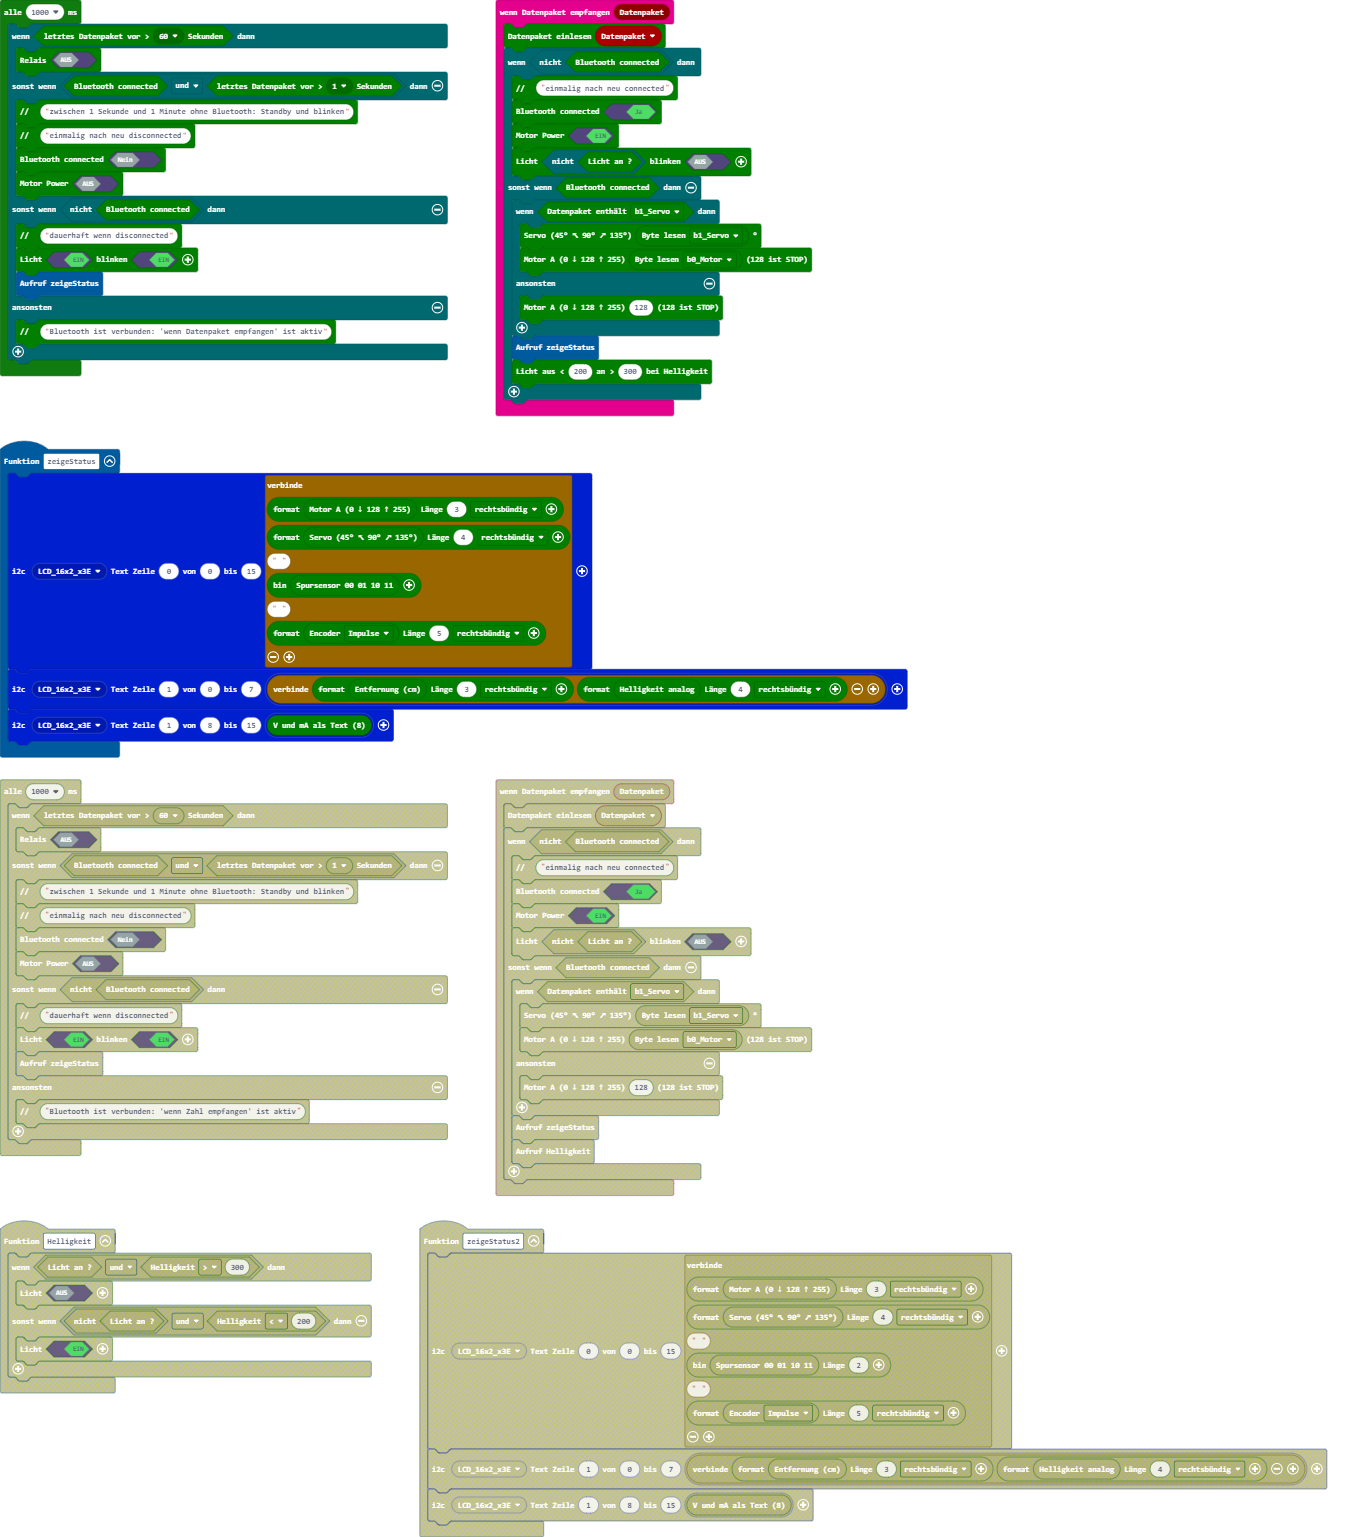
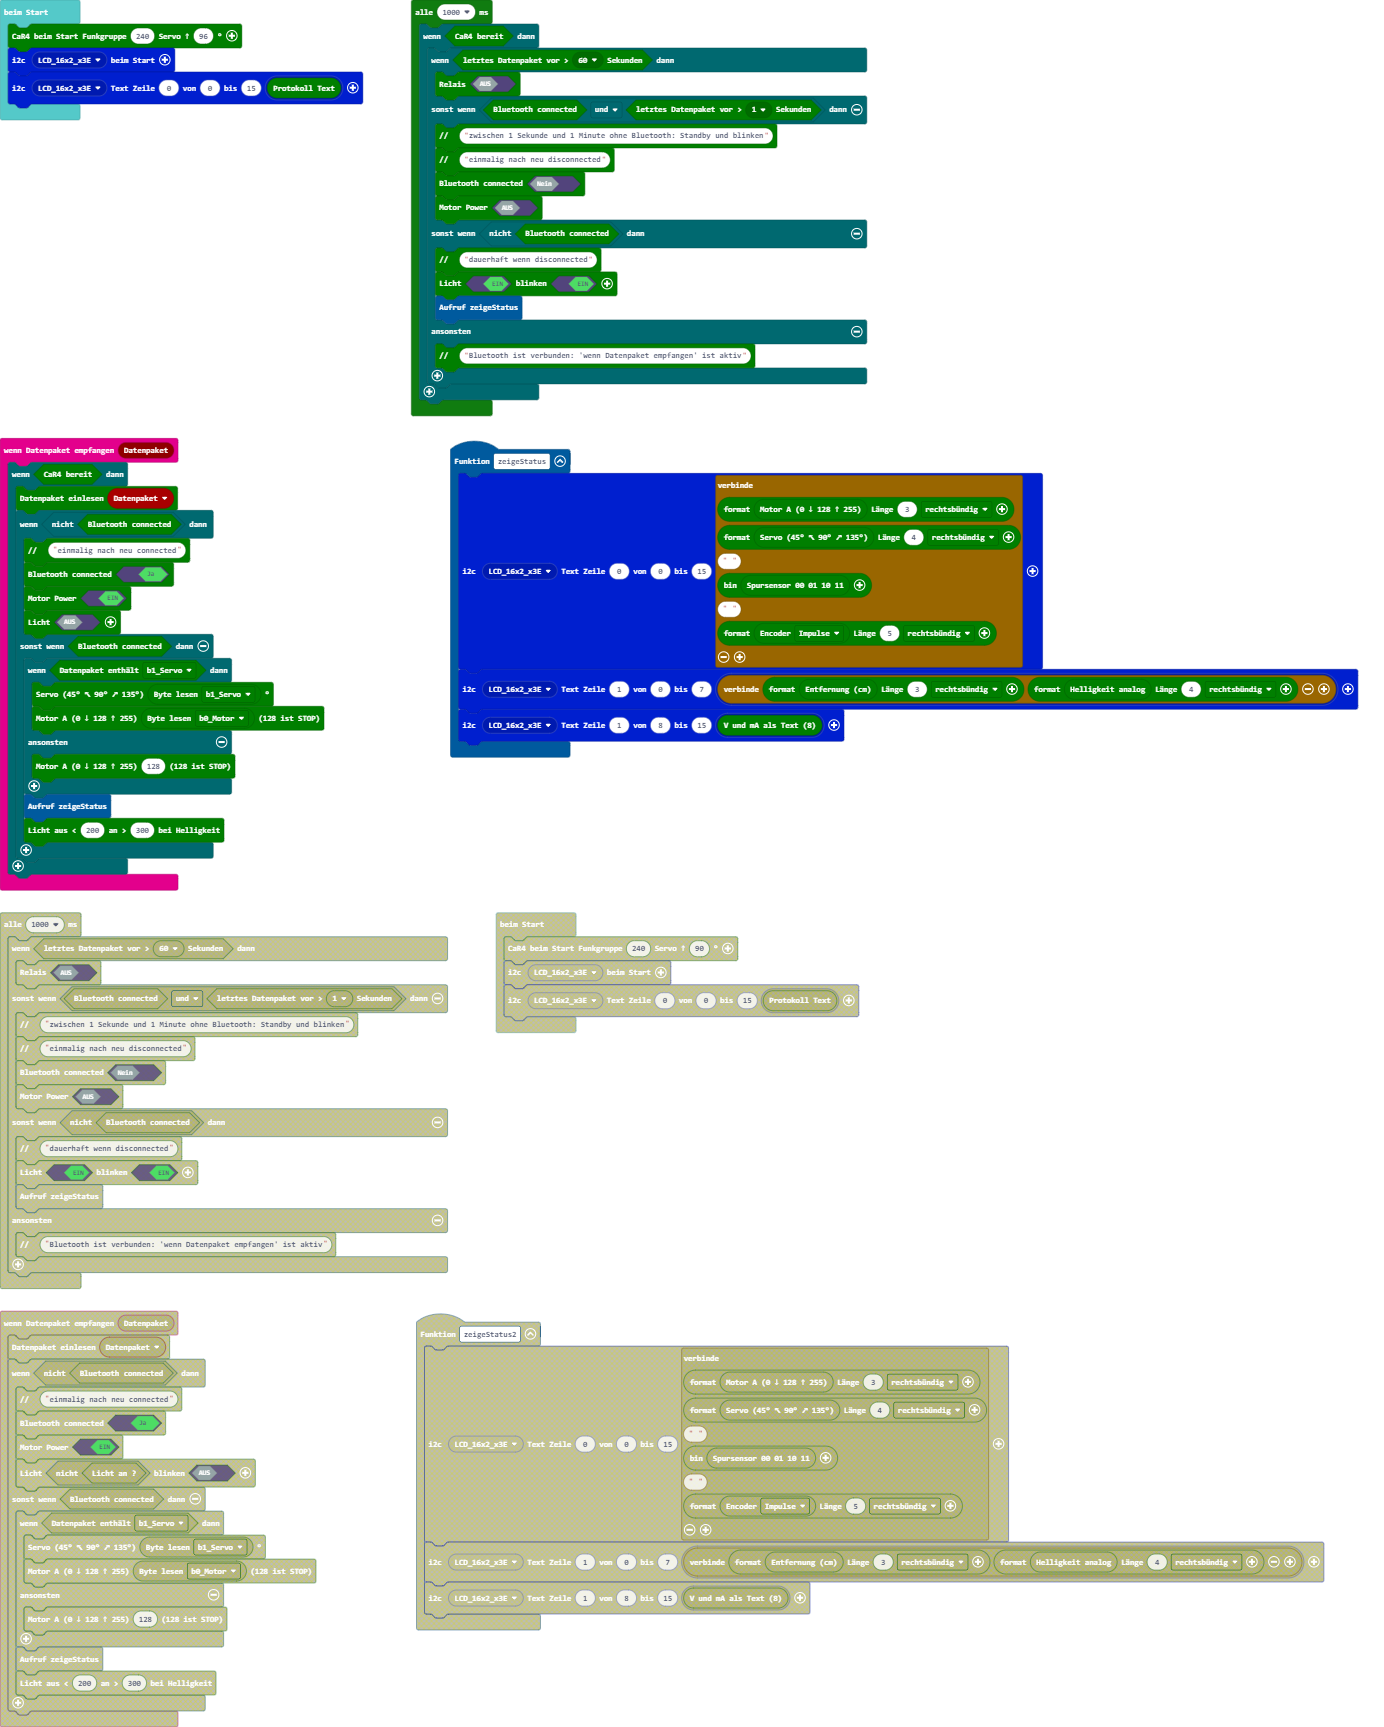
Aktualisiere pxt.json, main.blocks, main.ts

diff --git a/main.ts b/main.ts
@@ -4,42 +4,46 @@ function zeigeStatus () {
     lcd16x2rgb.writeText(lcd16x2rgb.lcd16x2_eADDR(lcd16x2rgb.eADDR_LCD.LCD_16x2_x3E), 1, 8, 15, lcd16x2rgb.lcd16x2_text(car4.wattmetertext()))
 }
 radio.onReceivedBuffer(function (Datenpaket) {
-    car4.onReceivedBuffer(Datenpaket)
-    if (!(car4.isConnected())) {
-        car4.comment("einmalig nach neu connected")
-        car4.setConnected(true)
-        car4.motorON(true)
-        car4.licht(!(car4.licht_get()), false)
-    } else if (car4.isConnected()) {
-        if (car4.receivedBuffer_Contains(car4.eBuffer.b1_Servo)) {
-            car4.servo(car4.receivedBuffer_getUint8(car4.eBuffer.b1_Servo))
-            car4.motorA255(car4.receivedBuffer_getUint8(car4.eBuffer.b0_Motor))
-        } else {
-            car4.motorA255(128)
+    if (car4.car4ready()) {
+        car4.onReceivedBuffer(Datenpaket)
+        if (!(car4.isConnected())) {
+            car4.comment("einmalig nach neu connected")
+            car4.setConnected(true)
+            car4.motorON(true)
+            car4.licht(false)
+        } else if (car4.isConnected()) {
+            if (car4.receivedBuffer_Contains(car4.eBuffer.b1_Servo)) {
+                car4.servo(car4.receivedBuffer_getUint8(car4.eBuffer.b1_Servo))
+                car4.motorA255(car4.receivedBuffer_getUint8(car4.eBuffer.b0_Motor))
+            } else {
+                car4.motorA255(128)
+            }
+            zeigeStatus()
+            car4.licht_sensor(200, 300)
         }
-        zeigeStatus()
-        car4.licht_sensor(200, 300)
     }
 })
 control.onEvent(car4.encoder_EventSource(), EventBusValue.MICROBIT_EVT_ANY, function () {
 	
 })
-car4.beimStart(240, 90)
+car4.beimStart(240, 96)
 lcd16x2rgb.initLCD(lcd16x2rgb.lcd16x2_eADDR(lcd16x2rgb.eADDR_LCD.LCD_16x2_x3E))
 lcd16x2rgb.writeText(lcd16x2rgb.lcd16x2_eADDR(lcd16x2rgb.eADDR_LCD.LCD_16x2_x3E), 0, 0, 15, lcd16x2rgb.lcd16x2_text(car4.logText()))
 loops.everyInterval(1000, function () {
-    if (car4.lastConnected(car4.car4_ePause(car4.ePause.p60))) {
-        car4.relay(false)
-    } else if (car4.isConnected() && car4.lastConnected(car4.car4_ePause(car4.ePause.p1))) {
-        car4.comment("zwischen 1 Sekunde und 1 Minute ohne Bluetooth: Standby und blinken")
-        car4.comment("einmalig nach neu disconnected")
-        car4.setConnected(false)
-        car4.motorON(false)
-    } else if (!(car4.isConnected())) {
-        car4.comment("dauerhaft wenn disconnected")
-        car4.licht(true, true)
-        zeigeStatus()
-    } else {
-        car4.comment("Bluetooth ist verbunden: 'wenn Datenpaket empfangen' ist aktiv")
+    if (car4.car4ready()) {
+        if (car4.lastConnected(car4.car4_ePause(car4.ePause.p60))) {
+            car4.relay(false)
+        } else if (car4.isConnected() && car4.lastConnected(car4.car4_ePause(car4.ePause.p1))) {
+            car4.comment("zwischen 1 Sekunde und 1 Minute ohne Bluetooth: Standby und blinken")
+            car4.comment("einmalig nach neu disconnected")
+            car4.setConnected(false)
+            car4.motorON(false)
+        } else if (!(car4.isConnected())) {
+            car4.comment("dauerhaft wenn disconnected")
+            car4.licht(true, true)
+            zeigeStatus()
+        } else {
+            car4.comment("Bluetooth ist verbunden: 'wenn Datenpaket empfangen' ist aktiv")
+        }
     }
 })
